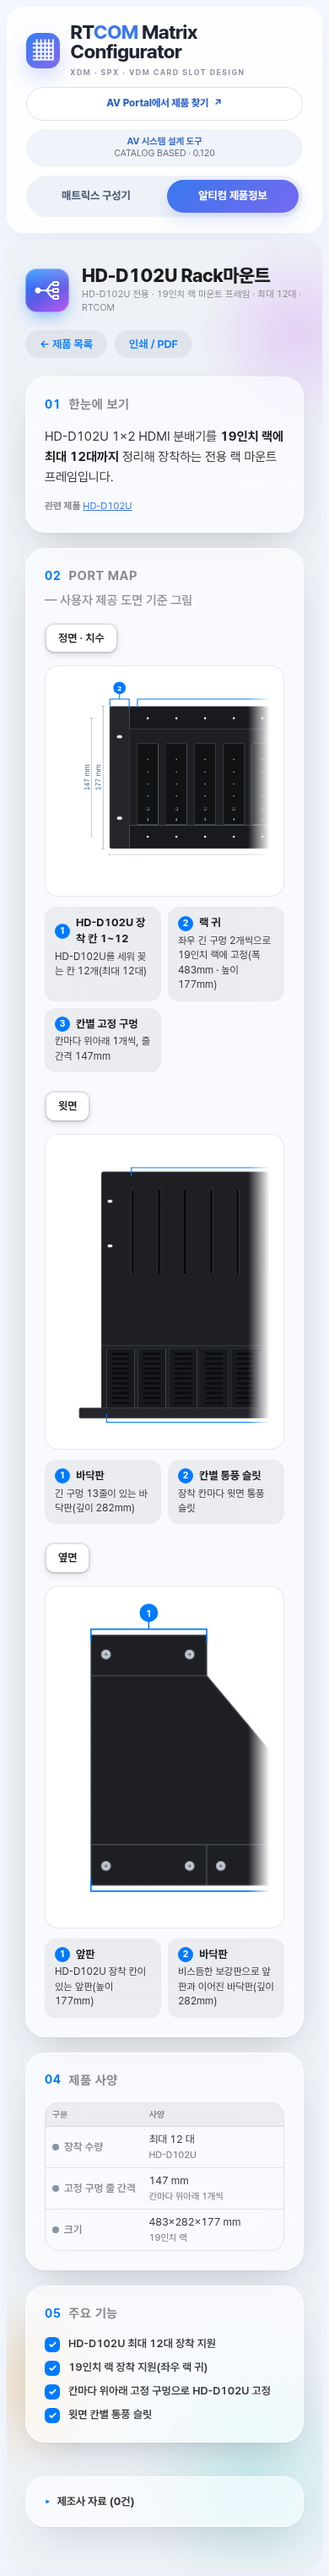
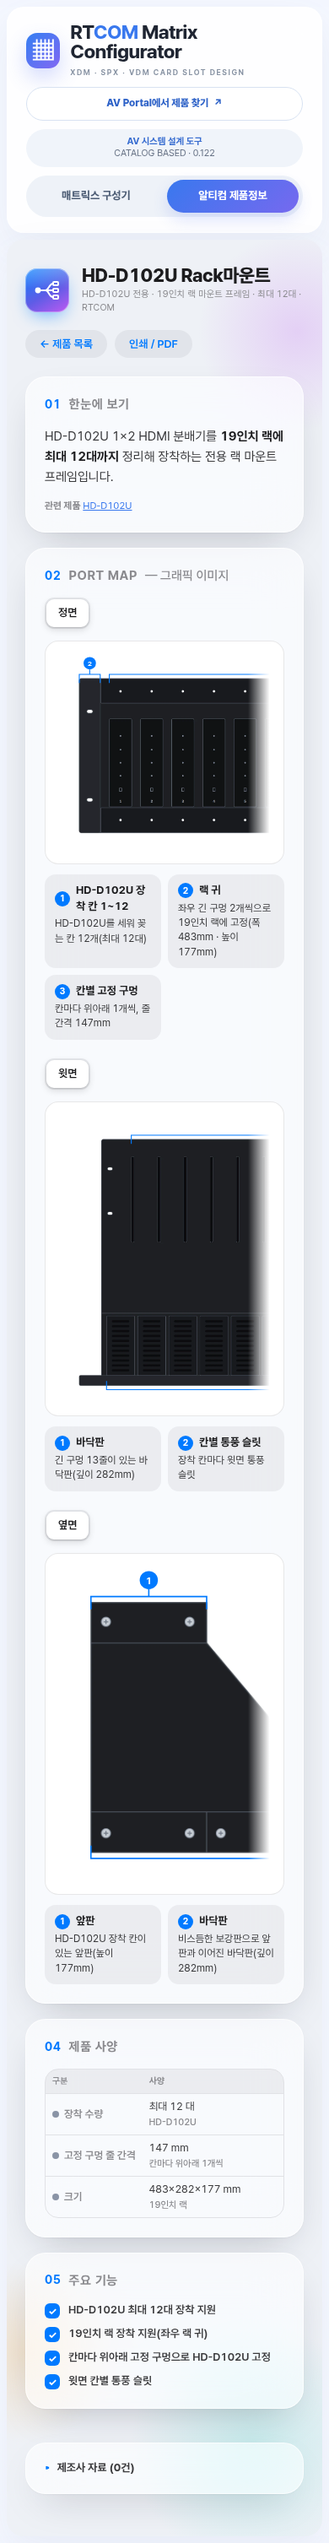
0.123.0: HD-D102U Rack마운트 실도면 제외, 그래픽 이미지만 (#151)
* data: XDM 전송기 RT컴 고해상도 사진 반영, FR101 수신기 단자 지도 추가

- XDM-CTR100·FT101·FR101 윗면·뒷면, XDM-CT103 정면 사진을 RT컴 제공
  고해상도 원본(4912px 투명 PNG)에서 잘라 2~5배 해상도로 교체(목록 카드 포함).
- 단자 지도: CTR100 뒷면·FT101 뒷면·CT103 앞면을 새 사진으로 다시 합성하고
  번호 좌표를 재측정. 앞면 자료가 없는 부분은 기존 카탈로그·매뉴얼 사진 유지.
- XDM-FR101 수신기 뒷면 단자 지도(번호 4개, 전원 마지막) 신규 추가.
- XDM-CTR100 PSE 사진은 기존보다 작아 사용하지 않음.
- e2e: FT101 검사를 첫 번째 지도 기준으로 고치고 새 검사 3개 추가(147/147).

Claude-Session: https://claude.ai/code/session_01V3dms2CC6NHWtyRSKKrJnV

* data: 구성기 04 전송기 썸네일·FT101 뒷면 사진도 RT컴 고해상도로 교체, 0.87.0

- extenders/xdm-ctr100·xdm-ft101·xdm-fr101(480→960px), xdm-ct103(220→440px)
- products/xdm-ft101-fr101-rear.webp 카탈로그 515px → RT컴 사진 1600px
- 0.87.0 버전 표기·CHANGELOG·CLAUDE.md 이력 갱신

Claude-Session: https://claude.ai/code/session_01V3dms2CC6NHWtyRSKKrJnV

* docs: 0.87.0 배포 기록

Claude-Session: https://claude.ai/code/session_01V3dms2CC6NHWtyRSKKrJnV

* data: XDM-CTR100·PSE 단자 지도 공통 고해상도 합성(앞면 PSE 안내서·뒷면 RT컴 CTR100), 0.88.0

사용자 확인 "ctr100과 pse는 단자는 동일해"에 따라 두 제품이 같은
합성 사진을 쓴다. 앞면 폭을 뒷면 몸체 폭에 맞추고 번호 7개를 재측정했다.

Claude-Session: https://claude.ai/code/session_01V3dms2CC6NHWtyRSKKrJnV

* docs: 0.89.0 배포 기록

PR #81 squash 병합(dd07581), Pages 배포 run 62, 공개 파일 242/242 일치, 비공개 파일 12개 404.

Claude-Session: https://claude.ai/code/session_01V3dms2CC6NHWtyRSKKrJnV

* data: QMS-88UX 06 DUAL 카드를 매뉴얼 근거 2분할(PBP)·PIP 레이아웃으로 보완, 0.90.0

"듀얼 모드" 한 마디뿐이던 DUAL 카드를 매뉴얼 KV.04 20~21쪽 근거로 채움.
QMS-88UX는 별도 듀얼 메뉴 없이 출력 9·10번 Multiview 설정에서
[…]

diff --git a/index.html b/index.html
@@ -1,7 +1,7 @@
 <!doctype html>
 <html lang="ko"><head><meta charset="utf-8"><meta name="viewport" content="width=device-width,initial-scale=1"><title>RTCOM 매트릭스 구성기</title><meta name="description" content="RTCOM XDM, SPX, VDM 매트릭스 카드 슬롯 구성기와 알티컴 공개 제품정보"></head><body><div id="rtcom-design" aria-label="RTCOM 매트릭스 구성기">
   <link rel="stylesheet" href="src/styles.css">
-  <header class="rt-top"><a class="rt-brand-lockup" href="./"><span class="rt-brand-mark" aria-hidden="true">▦</span><span><span class="rt-brand">RT<span>COM</span> Matrix Configurator</span><span class="rt-brand-sub">XDM · SPX · VDM CARD SLOT DESIGN</span></span></a><nav class="rt-view-tabs" aria-label="화면 전환"><a data-view-tab="configurator" href="#matrix-configurator" aria-current="page">매트릭스 구성기</a><a data-view-tab="products" href="#products">알티컴 제품정보</a></nav><div class="rt-top-links"><a class="rt-portal-link" href="https://seoulav.github.io/AV-Portal/" target="_blank" rel="noopener">AV Portal에서 제품 찾기 <span aria-hidden="true">↗</span><span class="rt-visually-hidden">(새 창)</span></a><div class="rt-meta"><b>AV 시스템 설계 도구</b><br>CATALOG BASED · 0.122</div></div></header>
+  <header class="rt-top"><a class="rt-brand-lockup" href="./"><span class="rt-brand-mark" aria-hidden="true">▦</span><span><span class="rt-brand">RT<span>COM</span> Matrix Configurator</span><span class="rt-brand-sub">XDM · SPX · VDM CARD SLOT DESIGN</span></span></a><nav class="rt-view-tabs" aria-label="화면 전환"><a data-view-tab="configurator" href="#matrix-configurator" aria-current="page">매트릭스 구성기</a><a data-view-tab="products" href="#products">알티컴 제품정보</a></nav><div class="rt-top-links"><a class="rt-portal-link" href="https://seoulav.github.io/AV-Portal/" target="_blank" rel="noopener">AV Portal에서 제품 찾기 <span aria-hidden="true">↗</span><span class="rt-visually-hidden">(새 창)</span></a><div class="rt-meta"><b>AV 시스템 설계 도구</b><br>CATALOG BASED · 0.123</div></div></header>
   <section class="rt-configurator-view" aria-label="매트릭스 구성기">
     <div id="matrix-configurator" class="rt-configurator-anchor"><h1 class="rt-visually-hidden" tabindex="-1">매트릭스 구성기 — 프레임을 선택하고 실제 슬롯 위치에 입력·출력 카드를 장착해 구성합니다.</h1></div>
     <div class="rt-workspace"><div class="rt-tools"><button class="rt-button" data-tool="undo" disabled>↶ 실행 취소</button><button class="rt-button" data-tool="redo" disabled>↷ 다시 실행</button><button class="rt-button" data-tool="backup">JSON 백업</button><button class="rt-button" data-tool="import">불러오기</button><button class="rt-button" data-tool="reset">새 구성</button></div><p id="save-status" role="status" aria-live="polite">이 브라우저에 자동 저장됩니다.</p><input id="import-file" type="file" accept=".json,application/json" hidden></div><nav class="rt-nav" aria-label="구성 단계"></nav>

diff --git a/src/products.js b/src/products.js
@@ -740,14 +740,6 @@
       const sorted=[...rows,...combos].sort((x,y)=>x[0]-y[0]).map(entry=>entry[1]).join('');
       return `<section class="rt-pg-card rt-pg-dip" style="margin-top:18px"><h2><span class="rt-pg-idx">${idx}</span>딥 스위치 설정 <span class="rt-pg-note">— ${esc(ds.place||'전면')} ${esc(ds.label||'딥 스위치')} · ${ds.onUp!==false?'위쪽':'아래쪽'}이 ON</span></h2><div class="rt-pg-dip-rows">${sorted}</div>${ds.apply?`<p class="rt-pg-hint">※ ${esc(ds.apply)}</p>`:''}${ds.note?`<p class="rt-pg-hint">※ ${esc(ds.note)}</p>`:''}</section>`;
     }
-    // ---- 도면 카드(0.122, HD-D102U Rack마운트). 사용자 제공 도면을 다시 그린 한 장(윗면·정면·옆면·치수)을 전체 폭으로 보여주고, 누르면 원본 크기로 연다 ----
-    function drawingSection(item){
-      const d=item.drawing;
-      const photo=d&&(item.images||[]).find(img=>img.file===d.file);
-      if(!photo)return '';
-      const idx=String(6+(item.videoModes?1:0)+(item.edidSwitch?.table?.length?1:0)+(item.audioMux?.modes?.length?1:0)+(item.dipSwitch?.rows?.length?1:0)).padStart(2,'0');
-      return `<section class="rt-pg-card rt-pg-drawing" style="margin-top:18px"><h2><span class="rt-pg-idx">${idx}</span>도면 <span class="rt-pg-note">— ${esc(d.basis||'제조사 도면 기준 그림')}</span></h2><a class="rt-pg-drawing-link" href="${image(photo.file)}" target="_blank" rel="noopener"><img src="${image(photo.file)}" alt="${esc(photo.alt||`${item.productName} 도면`)}" loading="lazy"></a>${d.note?`<p class="rt-pg-hint">※ ${esc(d.note)}</p>`:''}</section>`;
-    }
     // ---- 오디오 설정(병합 MUX·추출 DEMUX 중 선택, HD-13U). 매뉴얼 문장을 "이럴 때·연결·소리가 나오는 곳·확인 방법"으로 풀어 두 칸으로 보여준다 ----
     // HDS-21U·HDS-42MU는 딥 스위치 1번으로 고르므로 이 카드 대신 딥 스위치 설정 카드에서 함께 설명한다(사용자 요청 2026-09-27).
     // ---- 오디오 설정 순서 그림(0.61, 사용자 요청 "DIP 이미지처럼 불 켜짐", "분배기 로터리 이미지 그대로 활용해줘, 통일감이 없어") ----
@@ -815,7 +807,6 @@
       else if(hasAudioMux){belowCards=`${edidSwitchSection(item)}${audioMuxSection(item)}`}
       else{belowCards=edidSwitchSection(item)}
       belowCards+=dipSwitchSection(item);
-      belowCards+=drawingSection(item);
       // 휴대폰(1000px 이하)에서는 .rt-pg-col이 사라지고 rt-pg-col-mobile-N 순서로만 쌓이므로, sideCard도 순서 클래스가 있어야 05 다음(01~05, 06, 07 기록)으로 나온다(없으면 order:0이라 맨 앞으로 감).
       if(sideCard)sideCard=sideCard.replace('class="rt-pg-card', 'class="rt-pg-card rt-pg-col-mobile-6');
       return `${headerBlock({icon:PRODUCT_ICON[item.id]||GROUP_ICON[item.group],title:noBreak(item.productName),subtitle:`${esc(subtitleFor(item))} · RTCOM`,back:true,docs:docButtons(item),diagram:!!photo})}

diff --git a/src/styles.css b/src/styles.css
@@ -1040,7 +1040,3 @@ html{background:#f3f3ef}body{margin:0;padding:24px 16px;font-family:Arial,'Malgu
 #rtcom-design .rt-card-choice-ext-qty .rt-card-qty-stepper button{width:30px;height:30px;font-size:16px}
 #rtcom-design .rt-card-choice-ext-qty .rt-card-qty-stepper output{min-width:30px;font-size:15px}
 #rtcom-design .rt-card-choice-ext-qty[data-off]{opacity:.45}
-
-/* 0.122 도면 카드(HD-D102U Rack마운트): 한 장짜리 도면 그림을 카드 폭에 맞춰 보여준다. */
-.rt-pg-drawing-link{display:block;border-radius:14px;background:#fff;border:1px solid rgba(15,23,42,.08);padding:14px;cursor:zoom-in}
-.rt-pg-drawing-link img{display:block;width:100%;height:auto}

diff --git a/CLAUDE.md b/CLAUDE.md
@@ -50,7 +50,7 @@
 
 - 현재 화면 버전은 `index.html`의 우측 상단 표기와 `README.md`에 함께 기록합니다.
 - 원본 `main`에 기능 묶음을 병합할 때 마이너 버전을 올리고, 같은 커밋에서 `CHANGELOG.md`를 갱신합니다.
-- 구성기 단일 화면 전환은 `0.7.0`, Analog Way 방식 화면 개편은 `0.8.0`, 전송기 자동 연동은 `0.9.0`, HDMI 카드 PSE 쌍 연장은 `0.10.0`, SPX 매뉴얼 사진 슬롯은 `0.11.0`, VDM-256X 추가는 `0.12.0`, VDM 매뉴얼 후면 도면 슬롯은 `0.13.0`, 휴대폰 슬롯 겹침·뒤로가기 수정은 `0.14.0`, VDM 전면 도면은 `0.15.0`, 사진 슬롯 판넬 잘림 수정은 `0.16.0`, 장착 슬롯 번호표 숨김·구성 요약 카드 확대는 `0.17.0`, XDM 판넬 손나사 잘림 수정·VDM 전송기 연동·로고 홈 이동 확인은 `0.18.0`, 알티컴 공개 제품정보(29종) 재게시는 `0.19.0`, 제품정보 상세 표기를 에이앤미디어(antez.co.kr) 방식으로 정리한 것은 `0.20.0`, 데이터 기반 연결 다이어그램 추가는 `0.21.0`, 제품 사양 표를 구분·사양 2단으로 정리한 것은 `0.22.0`, 휴대폰 가로 스크롤(긴 출처 경로) 수정은 `0.23.0`, HD-14U·HD-18U 모델명 정정과 VDM CT102-U·FT102-U 계열 제외는 `0.24.0`, 제조사 카탈로그 원본 연결 다이어그램 적용은 `0.25.0`, 제품 사양 표 디자인(분류 색 점) 다듬기는 `0.26.0`, 새 카탈로그로 나머지 25종 재검증·XDM-CTR100 조합 다이어그램은 `0.27.0`, 연결 다이어그램 가로 스크롤 안내(그러데이션 표시)와 XDM-CTR100 케이블별 최대 전송거리(CI6522 80m) 추가는 `0.28.0`, VDM HOS4-U·HOS4S-UW 카드 설명을 스위칭 방식(일반·심리스)으로 정리하고 XDM-288을 구성기에서 삭제한 것은 `0.29.0`, XDM-CTR100 연결 다이어그램 조합 1을 매트릭스 카드 직결 배선으로 바로잡고 제조사 원본 다이어그램에 출처 캡션·표기 다름 경고를 추가하고 6개 제품과 SPX 다이어그램을 다시 잘라낸 것은 `0.30.0`, VDM 전송기 4종(CT101-U/CR101-U·CT103-U-H/CR103-U·FT101-U/FR101-U·FT103-U-H/FR103-U)에 RS-232 단자 행을 추가하고 이 4종과 CT104-U/CR104-U를 46쪽판과 재대조하고 27종 전체의 카탈로그 쪽 표기를 46쪽판 기준으로 통일한 것은 `0.31.0`, `docs/audit/PRODUCT_DIAGRAM_REVIEW_2026-09-27.md` §6 판단표대로 13개 제품의 검토 필요 항목을 정리해 REVIEW REQUIRED 배지를 없앤 것은 `0.32.0`, 제품정보 화면을 사용자 LED 구성기 계승 글래스 디자인으로 개편한 것(`docs/handoff/PRODUCT_GLASS_REDESIGN_SPEC.md` 6-A: 기반·HD-210U·XDM·VDM·SPX)은 `0.33.0`, 나머지 23종(분배기·일체형·전송기·케이블)에 lead·subtitle·portMap을 채우고 분배기·일체형 신호 흐름을 승인 시안 방식으로 바꾸고 QMS 화면 구성 모드(videoModes)를 추가한 것(6-B)은 `0.34.0`, HD-13U 상세에 전면 EDID 로터리 스위치 위치 표시와 EDID 코드표(edidSwitch, 사용자 제공 매뉴얼 근거)를 추가한 것은 `0.35.0`, HD-104U·HD-108U 모델명 표기를 0.24.0 정정 이전으로 되돌리고(사용자 확인 2026-09-27: 카탈로그 표기는 HD-104U·HD-108U이며 실크만 14U·18U로 변경 예정) HD-210U 전면 설정 스위치(딥 스위치·EDID 로터리) 추가와 신호 흐름 매트릭스 판정 복원을 함께 묶은 것은 `0.36.0`, 매트릭스 구성기 화면을 Analog Way 구조 + LED 글래스 스킨으로 개편하고 블랭크 커버(`placements`의 예약값 `"BLANK"`)로 슬롯 구성을 완성하는 기능을 추가한 것(`docs/handoff/CONFIGURATOR_AW_GLASS_SPEC.md`, 사용자 결정 2026-09-27)은 `0.37.0`, 0.37.0에서 시안과 다르게 남겨 둔 04 전송기 화면을 사용자 검토 후 좌우 분할 구조(01·02와 같은 틀)로 다시 지은 것(`docs/implementation/CONFIGURATOR_AW_GLASS.md` "04 전송기(편차 — 0.38.0에서 해소)")은 `0.38.0`, 제품 상세 "01 한눈에 보기" 위에 큰 사진 띠와 누르면 확대되는 돋보기(라이트박스)를 추가하고 화면에 보이는 제품 사양·주요 기능의 "up to" 표기를 "최대"로 통일하고 제품정보 "확인 사항" 118건을 2건으로 정리(HD-210U 크기 355mm 정정, `docs/audit/PRODUCT_ISSUES_ARCHIVE_2026-09-27.md`)한 것은 `0.39.0`, HD-13U "05 주요 기능"에 오디오 병합(믹스)·추출(디먹스) 동시 사용 안내(매뉴얼 7쪽 근거)를 추가한 것은 `0.40.0`, 분배기(HD-13U·HD-104U·HD-108U·HD-210U) EDID 로터리 코드표에서 자주 쓰는 1·7번을 강조하고 "02 신호 흐름"에 오디오 병합·추출(AUDIO OUT·"추출" 표시)을 추가한 것은 `0.41.0`, 사진 없이 입출력 표 카드로만 보이던 7종(HD-D102U·XDM-CTR100·전송기 5종)의 단자 지도를 HD-13U처럼 실제 제품 사진 기준으로 바꾸고 `portMap`이 송신기·수신기 사진 여러 장을 받게 한 것은 `0.42.0`, HDS-21U·HDS-42MU에 EDID 로터리(edidSwitch)를 추가하고 오디오 병합 설명을 "HDMI OUTPUT에 실리는 오디오" 기준으로 정정하고 분배기·선택기 필터를 HDMI 출력 개수 순으로 정렬하고 XDM-CTR100 "02 신호 흐름" 케이블 최대 전송거리 표기를 다이어그램 하단 한쪽으로 모은 것은 `0.43.0`, 분배기·선택기 필터 정렬을 분배기(Splitter)가 먼저 나오고 셀렉터(Switcher)가 나중에 나오도록(같은 종류 안에서는 HDMI 출력 개수 순) 바꾼 것은 `0.44.0`, 사용자 제공 매뉴얼 3권으로 벽부형 XDM-CT103·CT103-U-H/CR103-U·FT103-U-H/FR103-U의 단자 지도·사양·EDID 표를 보완하고 단자 지도에 세로 괄호·표시 폭·안내 줄을 추가한 것은 `0.45.0`, XDM-CTR100 PSE 제품 안내서와 XDM-CTR100 매뉴얼 Ver.1.4로 CTR100 단자 역할(HDMI IN·OUT, 5핀 오디오 출력, 상태 LED)·딥 스위치 설정·PSE 크기·전원을 보완한 것은 `0.46.0`, 옛 PR #22에만 있던 사용자 결정(XDM-CTR100과 XDM-CTR100 PSE를 별도 제품으로 분리해 28종, QMS-88UX 쿼드 뷰 출력 9·10번 사용법, 모델명 줄바꿈 방지)을 현재 main 기준으로 다시 옮기고 HD-13U 오디오 병합·추출을 선택 방식으로 정정해 07 오디오 설정 카드를 추가하고 모든 제품의 단자 지도 번호를 HDMI 입력 → 출력 → 오디오 → … → 전원(마지막) 순으로 통일한 것은 `0.47.0`, QMS-88UX 출력 9·10번 멀티뷰의 12가지 레이아웃·입력 그룹·출력 옵션을 사용자 제공 매뉴얼 20~23쪽 근거로 "주요 기능"에 적은 것은 `0.48.0`, HDS-21U·HDS-42MU 오디오 병합·추출을 딥 스위치 1번 선택 방식으로 정정하고 07 오디오 설정 카드를 추가하고 사용자 제공 매뉴얼 Ver.1.0으로 Priority·분배 기능 딥 스위치를 보완하고 제품 사진 팝업을 사용자 LED 계산기 "05 프로세서" 방식(사진 탭·원형 돋보기)으로 바꾼 것은 `0.49.0`, QMS-88UX "02 신호 흐름"에서 멀티뷰 출력 9·10번을 매트릭스 출력과 분리된 별도 갈래(패널·캡션)로 다시 그리고 "05 주요 기능" 멀티뷰 항목을 요약하고 오디오 출력 2개(QD1·QD2)가 선택 가능한 출력임을 반영한 것은 `0.50.0`, QMS-88UX "04 제품 사양"의 조건 칸(부설)을 모두 비우고 LAN(Telnet & Web Browser) 표기를 사양·기능·개요·단자 지도에서 모두 뺀 것은 `0.51.0`, HDS-42MU 크기를 사용자 결정에 따라 매뉴얼 값 232×65×30mm로 바꾸고 제품 상세의 "자료 출처·검토 기록"을 "제조사 자료"로 이름을 바꿔 화면의 출처 표시를 뺀 것은 `0.52.0`, QMS-88UX 오디오 QD1·QD2 설명 정리·"02 신호 흐름" 오디오 추출 점선과 멀티뷰 8입력분할 표현 정리·입출력 단자 표 정렬 통일(TX→구분 없음→RX, 영상→오디오→전송→제어, 입력→출력→양방향)·"제조사 자료"에서 표기 다름·참고 사항도 추가로 뺀 것과 조건 칸의 출처 문구를 지우고 "05 주요 기능"을 한 줄 요약으로 줄인 것(상세는 06·07 카드·사양·단자 지도로 이동)은 `0.53.0`, XDM-CTR100·CTR100 PSE "04 제품 사양"의 딥 스위치 행을 다시 삭제(딥 스위치는 05 주요 기능에서만 안내)하고 전 제품 "05 주요 기능"을 추가로 압축하고 매트릭스 COS/CIS/FIS/FOS 카드와 짝인 전송기 3종(XDM-CTR100·CTR100 PSE·FT101/FR101)에 RS-232+ 패스스루(AMX 등 통합 제어 신호를 매트릭스·전송기 너머로 전달) 안내를 추가하고 "02 신호 흐름"의 케이블 최대 전송거리 표기를 범례 "출력" 항목 오른쪽으로 옮긴 것은 `0.54.0`, 구성기 확인 창을 사이트 글래스 스타일 대화상자로 바꾸고 카드 팝업에 수량 채우기와 같은 방향 슬롯 이동(끌어 옮기기·팝업 이동)을 추가하고 XDM 세로 슬롯 카드를 180도 돌리고 2U 이상만 정면·후면 버튼(그보다 작으면 정면 사진과 포트 연결면을 함께 표시)으로 하고 구성기 작업 단계 표기를 한글로 바꾸고 Delete 키 카드 빼기와 XDM RS-232+(CIS·COS·FIS·FOS 카드와 짝 전송기) 표기를 더한 것은 `0.55.0`, 전 제품 "05 주요 기능" 카탈로그 어투 통일("~ 지원")·"01 한눈에 보기" 위 사진 띠 삭제·"02 신호 흐름"과 "03 단자 지도" 순서 교체 및 영문 표기(Signal Flow·Port Map)·화면 구성 모드 등 06 카드를 05 옆으로 배치·QMS-88UX 06 화면 구성 모드 레이아웃 12종 클릭 미리보기 추가·HDS-21U·HDS-42MU 단자 지도를 정면·후면 선택 버튼 없이 위아래 합성 사진 한 장(번호 1~7, EDID 로터리 6번·전원 7번)으로 바꾼 것은 `0.56.0`, 05 옆으로 옮긴 06 카드가 휴대폰에서 01보다 먼저 뜨던 순서 버그를 고치고(rt-pg-col-mobile-6 클래스 추가) 15개 제품 "05 주요 기능"의 "~할 수 있다." 표현 24곳을 명사형으로 정리한 것은 `0.57.0`, HDS-21U·HDS-42MU 단자 지도에 MODE 딥 스위치 번호(7번)를 추가하고 07 오디오 설정 카드를 딥 스위치 그림(번호별 OFF·ON) 카드인 07 딥 스위치 설정으로 바꾸고(1번 오디오 병합·추출, 2번 Priority, 42MU만 3번 분배) 04 제품 사양의 딥 스위치 행과 05 주요 기능의 긴 설명을 이 카드로 옮기고 매트릭스 제품(QMS-44UX·QMS-88UX·HDS-42MU) "03 Signal Flow"를 입력이 한 점으로 모이는 모양 대신 크로스포인트(출력마다 입력 선택 예시)로 다시 그리고 HDS-42MU 정면 사진의 잘못 인쇄된 실크(MODE·EDID)를 사진 안에서 서로 바꾼 것은 `0.58.0`, EDID 로터리 태그 잘림·06 EDID 카드 배치·긴 코드표 좌우 분할을 고치고 EDID 설정 카드에 기본값·자주 쓰는 코드를 파란 16단 로터리 그림(화살표가 코드를 가리킴)으로 보여주고 HDS-21U·HDS-42MU(3·9번)·FT103-U-H/FR103-U(3·6번)에 자주 쓰는 코드 강조를 더하고 EDID 코드표 세로 크기를 줄인 것은 `0.59.0`, 04 제품 사양 표 줄 간격을 약 15% 줄이고 03 Signal Flow에서 AUDIO OUT "추출" 표시가 잘리던 그림 너비 계산을 고친 것은 `0.60.0`, HD-13U 07 오디오 설정을 06 EDID 다음 전체 폭으로 옮겨 잘림·번호 뒤집힘을 고치고 EDID 대표 설정과 같은 칸 4개(MODE 로터리 0번 → SET 누름 → OUT 1 LED 깜빡임·깜빡이지 않음)를 넣고 HD-210U에 매뉴얼 Ver.1.2 근거 07 딥 스위치 설정 카드(1번 오디오 병합, 2번 DDC)를 추가한 것은 `0.61.0`, 딥 스위치 카드가 있는 HD-210U·HDS-21U·HDS-42MU의 05 주요 기능에서 스위치 번호 참조를 지우고 HD-210U(5줄)·HD-13U(3줄) 05 주요 기능을 기능 이름만 남겨 정리하고 HDS-21U·HDS-42MU 딥 스위치 칸을 ON → OFF 순서로 바꾼 것은 `0.62.0`, QMS-44UX·QMS-88UX "06 화면 구성 모드" 카드가 05 옆 좁은 칸에 들어가면서 모드 카드 설명·레이아웃 칩이 카드 밖으로 넘치던 문제를 edidSwitch와 같은 기준(항상 전체 폭 아래)으로 고친 것은 `0.63.0`, SPX-TX/RX 전송기를 29번째 제품으로 추가(매뉴얼 Ver.2.0: 사양·단자 지도·딥 스위치 조합)하고 XDM-FT101/FR101에 매뉴얼 Ver.1.3 근거 EDID·오디오 로터리 카드(전체 8칸 그림)를 넣고 SPX 안내·범례의 HDBaseT 표기를 CATx로 바로잡고 OBUX-1C에 매뉴얼 Ver.2.2 근거 Tx Mode 딥 스위치 카드(1번 오디오, 2·3·4번 EDID 조합)를 넣고 전 제품 05 주요 기능의 "~한다/~다." 문장을 "~ 지원"·명사형으로 통일한 것은 `0.64.0`, OBHD-2C에 매뉴얼 KV01 근거 06 EDID 설정(MODE 로터리 0~D 전체 14칸 그림·코드표)을 추가하고 XDM-CT103/CR103 04 제품 사양의 전원(어댑터) 중복 행(CT103·CR103 각각 있던 동일 값)을 공통 행 하나로 합친 것은 `0.65.0`, XDM-CTR100·XDM-CTR100 PSE에 매뉴얼 Ver.1.4 근거 06 딥 스위치 설정(1·2번 TX/RX 모드 조합, 3번 전송 거리)을 추가하고 두 제품이 별도 페이지로 나뉜 뒤에도 남아 있던 04 제품 사양의 "공통"·자기 모델명 반복 표기를 정리하고 04 사양 "지원 케이블"을 "권장 케이블"로 바꾸고 분배기 4종(HD-13U·HD-104U·HD-108U·HD-210U) 단자 지도를 앞면·뒷면 합성 사진 한 장으로 바꿔 정면 로터리(·SET·MODE)에도 번호를 붙인 것은 `0.66.0`, QMS-88UX 06 화면 구성 모드 QUAD 레이아웃 목록에 매뉴얼 22~23쪽 Output Option 2·3 근거로 "8분할(비율무시)"을 13번째 항목으로 추가하고 분배기 4종(HD-13U·HD-104U·HD-108U·HD-210U) 05 주요 기능에 다단 증폭(캐스케이드 연결) 최대 3단 지원을 추가한 것은 `0.67.0`, XDM-FT101/FR101 단자 지도에 정면 MODE 로터리·S/P 번호를 추가하고 HD-D102U 05 주요 기능을 명사형으로 전면 재작성하고 HDS-21U·HDS-42MU "Audio Extraction"과 HD-210U EDID "Nothing" 표기를 통일하고 HDS-21U 딥 스위치 3번(분배)이 매뉴얼에 없는 기능이었음을 사용자 제공 매뉴얼로 확인해 삭제한 것은 `0.68.0`, HDS-21U·HDS-42MU 06 EDID 설정 안내 문장에서 "10번=A, 11번=B"처럼 10진수를 다시 설명하던 괄호를 완전히 지운 것은 `0.69.0`, 구성기 "섀시"를 "프레임"으로 통일하고 카드 팝업에 수량·순서대로 장착 버튼을 넣고 02 프레임 선택에 "함께 보면 좋은 제품"을 추가하고 빈 슬롯 공패널색을 통일하고 OBHD-2C EDID 로터리 번호를 매뉴얼 Ver.2.1 기준으로 정정하고 HD-D102U "스마트 EDID" 문구를 알기 쉽게 풀어 쓰고 HD-13U·XDM-CTR100 PSE "인증: KC 인증" 행을 삭제하고 HD-D102U 04 사양표를 HD-13U와 같은 구성으로 정리한 것은 `0.70.0`, OBHD-2C 04 제품 사양의 크기·무게·HDMI 규격을 사용자 결정에 따라 매뉴얼 Ver.2.1 값(128×89×25mm·0.36kg·HDMI 1.3)으로 바꾼 것은 `0.71.0`, OBHD-2C·OBUX-1C 04 제품 사양의 입력단자·출력단자(HDMI(female) 등 표기) 행을 삭제하고 전 제품(16종)의 mm/kg 옆 인치·lbs 병기를 지운 것은 `0.72.0`, XDM-PSU 전원 장치를 반영해 BOM의 임시 "전원 공급 장비"를 XDM-PSU(16칸당 1대)·XDM-POH(CTR100 Tx 1대당 1개)·XDM-PHX(COS100 1장당 1개)로 나누고 XDM-PSU를 30번째 제품으로 추가하고, HDS-21U·OBUX-1C 송신기·수신기 고해상도 실물 사진을 반영하고, CT103-U-H/CR103-U 04 제품 사양을 요약 형태로 정리한 것은 `0.73.0`, QMS-44UX 전면·후면 사진을 사용자가 직접 촬영한 고화질 사진으로 바꾸고 03 단자 지도 좌표를 재보정하고 새 사진에서 확인된 DOWNLOAD(Mini-USB) 포트를 추가한 것은 `0.74.0`, HD-108U 전면·후면 사진을 제조사에서 입수한 고화질 사진으로 바꾸고 03 단자 지도와 06 EDID 설정 로터리 스위치 좌표를 재보정한 것은 `0.75.0`, HDS-42MU 전면·후면 사진을 고화질로 바꾸고 단자 지도·EDID 좌표를 재보정한 것은 `0.76.0`, HD-13U·SPX-M810 전면·후면 사진을 고해상도로 바꾸고 HD-13U 단자 지도·EDID 좌표와 SPX-M810 구성기 카드 슬롯 좌표를 재측정한 것은 `0.77.0`, 사용자가 제공한 HD-104U 고해상도 전면·후면 사진(긴 변 약 2000px)으로 기존 저해상도 이미지를 교체하고 단자 지도·EDID 로터리 스위치 좌표를 새 사진 기준으로 다시 측정한 것은 `0.78.0`, 제품 상세에 등록된 제조사 카탈로그·매뉴얼 PDF만 "제품 목록" 옆 버튼(새 탭 보기·내려받기)으로 보여 주는 구조를 추가한 것은 `0.79.0`, 매트릭스 카드 상세 정보 버튼과 XDM·SPX·VDM 카드 26종 사양을 등록한 것은 `0.80.0`, 로컬 작업 환경(`DEVICE_WORKFLOW.md`, `.gitattributes`, `.claude/settings.json`)과 `input_doc` 자료 자동 분류(`.claude/skills/input-doc`, `scripts/input_doc.py`)를 추가한 것은 `0.81.0`, 제조사 자료 입출력 단자 표에서 방향("입력"·"출력"·"입출력")·수량(숫자) 칸이 좁은 화면에서 줄바꿈되던 문제를 30개 제품 전수 조사로 찾아 고친 것은 `0.82.0`, 제목에 송신기·수신기가 들어간 제품 10종의 라벨을 색으로 구분한 것은 `0.83.0`, input_doc 첫 정리(매뉴얼 20권·사양서 1장)로 VDM HOS4-U 카드 사양을 등록하고 CIS4-U·COS4-U·QOS4S-U를 매뉴얼 KV07 값으로 보완하고 input_doc 반영 장부(`docs/evidence/input-doc-ledger.json`)와 파일별 반영 표시(`input_doc/STATUS.md`)를 추가하고 검증된 PR의 병합·배포를 Claude가 이어서 하도록 규칙을 바꾼 것은 `0.84.0`, 카탈로그·매뉴얼 충돌 정리(`docs/audit/CATALOG_MANUAL_CONFLICTS_2026-09-28.md`) 결정대로 VDM -U 카드에 매뉴얼 해상도 행·SOS4 오디오 포트를 더하고 QMS-88UX 멀티뷰에 8분할(16:9 비율)을 추가한 것은 `0.85.0`, 카탈로그·매뉴얼 충돌 항목을 사용자 결정("새로준 자료 기준으로")에 따라 매뉴얼 값으로 통일한 것(HD-104U 전원 1A, XDM 전송기 3840x2160, VDM 광 카드 10km·-U 카드 4096×2160·HOS4S-UW 1920×1080)은 `0.86.0`, RT컴 제공 고해상도 실물 사진으로 XDM-CTR100·XDM-FT101·XDM-FR101·XDM-CT103 제품 사진·목록 카드·구성기 04 전송기 썸네일을 교체하고 CTR100·FT101·CT103 단자 지도를 새 사진으로 다시 합성하고 XDM-FR101 수신기 뒷면 단자 지도를 추가한 것은 `0.87.0`, 사용자 결정("1번")으로 input_doc 매뉴얼 17개를 공개 폴더에 올려 16개 제품 상세에 매뉴얼 PDF 버튼을 켠 것은 `0.88.0`, 사용자 확인("ctr100과 pse는 단자는 동일해")에 따라 XDM-CTR100·XDM-CTR100 PSE 단자 지도를 같은 합성 사진(앞면 PSE 제품 안내서 사진 + 뒷면 RT컴 CTR100 사진)으로 바꾼 것은 `0.89.0`, QMS-88UX 06 화면 구성 모드의 DUAL 카드("듀얼 모드" 한 마디뿐)를 매뉴얼 KV.04 20~21쪽 근거로 출력 9·10번 멀티뷰 설정의 2분할(PBP)·PIP 레이아웃 3종으로 채운 것은 `0.90.0`, XDM-CTR100 PSE 정면 사진을 사용자가 재확인("1번 맞아"·"적용시켜줘")한 원본 PNG에서 정확한 픽셀 경계로 다시 잘라 646×396으로 다시 저장한 것은 `0.91.0`, SPX-TX/SPX-RX 단자 지도 사진의 검은 배경을 흰색으로 바꾸고(사용자 요청) 전송기 6개 제품 사양의 ft(피트) 표기를 일괄 삭제한 것은 `0.92.0`, 전송기 9종 04 제품 사양 조건 칸의 "모델A·모델B 공통" 표기 55곳을 일괄 삭제하고 XDM-PSU에 "03 Signal Flow"(POH 입력 경로·PHX 출력 경로, 주황 전원 선) 그림을 추가한 것은 `0.93.0`, XDM-CTR100·XDM-CTR100 PSE 04 제품 사양의 최대 전송거리 3행을 1행으로 합치고 권장 케이블 행을 지우고 PSE 목록 썸네일을 정면 사진으로 바꾼 것은 `0.94.0`, 전체 카탈로그 46쪽판을 공용 파일(`rtcom-catalog-2026.pdf`) 하나로 공개해 29개 제품 상세의 카탈로그 PDF 버튼이 제품 쪽(`#page=N`)에서 열리고 제품 목록에 전체 카탈로그 버튼을 둔 것(사용자 결정 2026-09-28 "전체 카탈로그 공개해도 돼")은 `0.95.0`, QMS-88UX 06 화면 구성 모드의 QUAD·DUAL 설명 문장을 짧게 줄이고 매뉴얼 쪽 번호를 화면에 안 보이는 `page` 항목으로 옮기고 QMS-44UX QUAD 설명도 두 줄로 나눠 줄인 것(사용자 요청 "QMS-44, 88 모두 글이 너무 많아 좀 더 요약해줘")은 `0.96.0`, 전체 카탈로그 46쪽판에서 제품마다 해당 쪽만 뽑은 제품별 카탈로그 PDF 29개(`<제품id>-catalog.pdf`, XDM은 전송기 쪽을 뺀 4~9쪽, SPX-TX/RX는 16쪽)를 만들어 제품 상세 카탈로그 버튼에 연결한 것(사용자 결정 2026-09-28 "제품별로 잘라 공개")은 `0.97.0`, XDM-PSU "03 Signal Flow"를 제조사 연결도처럼 매트릭스 프레임(CIS100·COS100)·XDM-PSU(POH·PHX)·XDM-CTR100 Tx/Rx 장비 그림으로 다시 그리고 케이블을 따라 신호·전원이 흐르는 애니메이션을 넣은 것(사용자 요청 2026-09-28)은 `0.98.0`, 그 그림의 XDM-COS100을 포트마다 RJ45+피닉스 5핀으로 고쳐 PHX 2핀 전원선이 1번 포트 피닉스 단자에 꽂히게 하고(사용자 확인 "COS PHNIX픽에 전원연결") XDM-PSU Signal Flow에만 "크게 보기" 확대 창(100~300%)을 넣은 것은 `0.99.0`, QMS-88UX "8분할(16:9 비율)" 미리보기가 매뉴얼(KV.04 23쪽)처럼 위·아래 여백을 짙은 막대로 보여주게 고친 것(사용자 지적 "8분할시 비율유지는 안되는거 같은")은 `0.100.0`, 구성기 카드 팝업 "카드별 수량" 스테퍼가 다 채운 뒤 사라지던 버그를 고친 것은 `0.101.0`, OBHD-2C 단자 지도 사진 3장의 검은 배경을 흰색으로 바꾼 것(사용자 요청 2026-09-28 "OBHD-2C 이미지 너가 블랙을 뺄수 있을까?")은 `0.102.0`, XDM-CTR100과 동등 사양인 XDM-CT103/CR103의 "권장 케이블"을 "CAT6a, CAT7"에서 "CAT6A S/FTP 이상(UTP 사용 불가)"으로 정정하고 XDM-CIS100·COS100 카드 소개 문구도 맞춘 것은 `0.103.0`, XDM-CTR100 PSE 크기 표기를 사용자 제공 스펙표 근거로 "107.4[127.4]×88×30.1mm"(본체[브래킷 포함])로 QMS-88UX와 같은 표기 관례로 바꾼 것은 `0.104.0`, XDM-PSU 머리 아이콘을 전원(번개) 모양으로 바꾸고 02 Port Map 앞면·뒷면을 03 Signal Flow와 같은 평면 그림(`scripts/tools/draw_xdm_psu_panels.cjs`, 제조사 도면 배치)으로 다시 만든 것(사용자 요청 2026-09-28)은 `0.105.0`, XDM-PSU 03 Signal Flow의 COS100 전원선 길이·배치를 조정하고 확대 창 범례 누락을 고친 것은 `0.106.0`, OBHD-2C 사진 3장에서 원본부터 깨져 있던 실크 글자(송신기 PWR의 R·EDID S/W의 D 두 개, 수신기 AUDIO의 D)를 같은 사진의 온전한 글자로 복원한 것은 `0.107.0`, HD-13U 제품 상세 카탈로그 PDF 버튼을 새 탭 대신 화면 안 팝업(iframe)으로 여는 샘플을 적용하고(사용자 요청 2026-09-28 "카달로그는 팝업형태 보이면 어때? 1장짜리라서 파일다운받아서 다시 열기 불편해", "샘플로 HD-13U만 적용해줘"), 카드 선택 팝업의 "순서대로 장착"·"닫기" 버튼을 "장착" 하나로 합치고 "다른 출력 슬롯으로 이동" 드롭다운을 없애고(사용자 요청 "내가 직접 드래그 이동이 가능하니까"), XDM-HOS100 "정사분할" 표기를 "최대 4분할"로 통일하고, XDM-CTR100·XDM-CTR100 PSE "최대 전송거리" 조건 문구를 "*S/FTP CAT6A 필수"로 단순화한 것은 `0.108.0`, QMS-88UX "03 Signal Flow" 멀티뷰 출력 9·10번 캡션을 "9·10번 각 4분할 · 합쳐서 최대 8입력"에서 "9·10번 각 4분할 또는 8분할"로 바로잡은 것(사용자 지적)은 `0.109.0`, XDM 연결 전송기 4종(XDM-CTR100·XDM-CTR100 PSE·XDM-CT103/CR103·XDM-FT101/FR101)의 04 제품 사양 최대 해상도 표기를 `4K60Hz`(4:4:4)로 통일하고 XDM-FT101/FR101의 4096x2160 표기를 개요·주요 기능·사양에서 모두 뺀 것(사용자 결정 2026-09-28 "4종 4K60(4:4:4) 형식으로 통일", "4096은 잘 사용하지 않아서 모든 양식에서 빼자")은 `0.110.0`, 실물 사진이 없는 VDM 프레임 전면 7종·후면 8종을 VDM-16X 실물 사진과 같은 검은 몸체의 평면 그림(`scripts/tools/draw_vdm_frames.cjs`, 매뉴얼 KV07 도면 배치)으로 바꾼 것은 `0.111.0`, HD-13U 카탈로그 팝업을 iframe 대신 저장소에 넣은 PDF.js(`src/vendor/pdfjs/`, Apache 2.0)로 그려 PDF 보기 기능이 없는 휴대폰·인앱 브라우저에서도 다운로드 없이 바로 보이게 한 것(사용자 결정 2026-09-28 "PDF.js로 HD-13U 적용해줘")은 `0.112.0`, 구성기 후면(03 카드 슬롯) XDM 6종(후면 사진이 없던 XDM-216 포함)·SPX 5종 프레임을 VDM과 같은 평면 그림(`scripts/tools/draw_xdm_spx_rear_frames.cjs`)으로 바꾼 것은 `0.113.0`, 02 프레임 선택 미리보기 캡션 아래에 "다음 · 카드 슬롯 구성" 버튼을 넣은 것은 `0.114.0`, 카드 선택 팝업 아래 줄의 "슬롯 비우기(Del)"를 왼쪽·"장착"을 오른쪽으로 바꾼 것은 `0.115.0`, 02 프레임 선택 미리보기에 정면·후면을 함께 보여 주고(위아래·좌우, 후면 세로/가로 비율 2 초과인 XDM-144·216, VDM-80X·128X·180X만 정면/후면 버튼) 휴대폰 미리보기 높이 제한을 없앤 것은 `0.116.0`, 03 카드 선택 팝업에서 카드마다 연동 전송기(칩)를 골라 장착과 함께 연결하게 한 것(02·04는 그대로)은 `0.117.0`, 카드 선택 팝업 연동 전송기에 카드 1장당 수량 조절기를 더해 연결 수량과 물량 산출서(BOM)에 반영한 것은 `0.118.0`, VDM-16X 후면(카드가 꽂힌 실물 사진)을 빈 슬롯 평면 그림으로 바꿔 후면 20종을 모두 그림으로 맞춘 것은 `0.119.0`, VDM 카드 사진(HOS4S-UW·CIS4-U·COS4-U)과 VDM 프레임 그림 슬롯 칸을 모두 5.7:1로 맞춰 카드가 칸에 정확히 들어가게 한 것은 `0.120.0`, HD-D102U를 최대 12대 장착하는 19인치 랙 프레임 "HD-D102U Rack마운트"를 사용자 제공 도면으로 31번째 제품(정면·윗면·옆면 그림, HD-D102U와 서로 관련 제품)으로 추가한 것은 `0.121.0`, 그 제품 상세에 사용자 제공 도면 한 장(윗면·정면·옆면·치수)을 다시 그린 "06 도면" 카드(`drawing` 항목)를 추가한 것은 `0.122.0`으로 기록했습니다. 다음 기능 묶음은 `0.123.0`을 목표로 하며, 실제 병합 전에는 검증된 canonical main commit을 확인합니다.
+- 구성기 단일 화면 전환은 `0.7.0`, Analog Way 방식 화면 개편은 `0.8.0`, 전송기 자동 연동은 `0.9.0`, HDMI 카드 PSE 쌍 연장은 `0.10.0`, SPX 매뉴얼 사진 슬롯은 `0.11.0`, VDM-256X 추가는 `0.12.0`, VDM 매뉴얼 후면 도면 슬롯은 `0.13.0`, 휴대폰 슬롯 겹침·뒤로가기 수정은 `0.14.0`, VDM 전면 도면은 `0.15.0`, 사진 슬롯 판넬 잘림 수정은 `0.16.0`, 장착 슬롯 번호표 숨김·구성 요약 카드 확대는 `0.17.0`, XDM 판넬 손나사 잘림 수정·VDM 전송기 연동·로고 홈 이동 확인은 `0.18.0`, 알티컴 공개 제품정보(29종) 재게시는 `0.19.0`, 제품정보 상세 표기를 에이앤미디어(antez.co.kr) 방식으로 정리한 것은 `0.20.0`, 데이터 기반 연결 다이어그램 추가는 `0.21.0`, 제품 사양 표를 구분·사양 2단으로 정리한 것은 `0.22.0`, 휴대폰 가로 스크롤(긴 출처 경로) 수정은 `0.23.0`, HD-14U·HD-18U 모델명 정정과 VDM CT102-U·FT102-U 계열 제외는 `0.24.0`, 제조사 카탈로그 원본 연결 다이어그램 적용은 `0.25.0`, 제품 사양 표 디자인(분류 색 점) 다듬기는 `0.26.0`, 새 카탈로그로 나머지 25종 재검증·XDM-CTR100 조합 다이어그램은 `0.27.0`, 연결 다이어그램 가로 스크롤 안내(그러데이션 표시)와 XDM-CTR100 케이블별 최대 전송거리(CI6522 80m) 추가는 `0.28.0`, VDM HOS4-U·HOS4S-UW 카드 설명을 스위칭 방식(일반·심리스)으로 정리하고 XDM-288을 구성기에서 삭제한 것은 `0.29.0`, XDM-CTR100 연결 다이어그램 조합 1을 매트릭스 카드 직결 배선으로 바로잡고 제조사 원본 다이어그램에 출처 캡션·표기 다름 경고를 추가하고 6개 제품과 SPX 다이어그램을 다시 잘라낸 것은 `0.30.0`, VDM 전송기 4종(CT101-U/CR101-U·CT103-U-H/CR103-U·FT101-U/FR101-U·FT103-U-H/FR103-U)에 RS-232 단자 행을 추가하고 이 4종과 CT104-U/CR104-U를 46쪽판과 재대조하고 27종 전체의 카탈로그 쪽 표기를 46쪽판 기준으로 통일한 것은 `0.31.0`, `docs/audit/PRODUCT_DIAGRAM_REVIEW_2026-09-27.md` §6 판단표대로 13개 제품의 검토 필요 항목을 정리해 REVIEW REQUIRED 배지를 없앤 것은 `0.32.0`, 제품정보 화면을 사용자 LED 구성기 계승 글래스 디자인으로 개편한 것(`docs/handoff/PRODUCT_GLASS_REDESIGN_SPEC.md` 6-A: 기반·HD-210U·XDM·VDM·SPX)은 `0.33.0`, 나머지 23종(분배기·일체형·전송기·케이블)에 lead·subtitle·portMap을 채우고 분배기·일체형 신호 흐름을 승인 시안 방식으로 바꾸고 QMS 화면 구성 모드(videoModes)를 추가한 것(6-B)은 `0.34.0`, HD-13U 상세에 전면 EDID 로터리 스위치 위치 표시와 EDID 코드표(edidSwitch, 사용자 제공 매뉴얼 근거)를 추가한 것은 `0.35.0`, HD-104U·HD-108U 모델명 표기를 0.24.0 정정 이전으로 되돌리고(사용자 확인 2026-09-27: 카탈로그 표기는 HD-104U·HD-108U이며 실크만 14U·18U로 변경 예정) HD-210U 전면 설정 스위치(딥 스위치·EDID 로터리) 추가와 신호 흐름 매트릭스 판정 복원을 함께 묶은 것은 `0.36.0`, 매트릭스 구성기 화면을 Analog Way 구조 + LED 글래스 스킨으로 개편하고 블랭크 커버(`placements`의 예약값 `"BLANK"`)로 슬롯 구성을 완성하는 기능을 추가한 것(`docs/handoff/CONFIGURATOR_AW_GLASS_SPEC.md`, 사용자 결정 2026-09-27)은 `0.37.0`, 0.37.0에서 시안과 다르게 남겨 둔 04 전송기 화면을 사용자 검토 후 좌우 분할 구조(01·02와 같은 틀)로 다시 지은 것(`docs/implementation/CONFIGURATOR_AW_GLASS.md` "04 전송기(편차 — 0.38.0에서 해소)")은 `0.38.0`, 제품 상세 "01 한눈에 보기" 위에 큰 사진 띠와 누르면 확대되는 돋보기(라이트박스)를 추가하고 화면에 보이는 제품 사양·주요 기능의 "up to" 표기를 "최대"로 통일하고 제품정보 "확인 사항" 118건을 2건으로 정리(HD-210U 크기 355mm 정정, `docs/audit/PRODUCT_ISSUES_ARCHIVE_2026-09-27.md`)한 것은 `0.39.0`, HD-13U "05 주요 기능"에 오디오 병합(믹스)·추출(디먹스) 동시 사용 안내(매뉴얼 7쪽 근거)를 추가한 것은 `0.40.0`, 분배기(HD-13U·HD-104U·HD-108U·HD-210U) EDID 로터리 코드표에서 자주 쓰는 1·7번을 강조하고 "02 신호 흐름"에 오디오 병합·추출(AUDIO OUT·"추출" 표시)을 추가한 것은 `0.41.0`, 사진 없이 입출력 표 카드로만 보이던 7종(HD-D102U·XDM-CTR100·전송기 5종)의 단자 지도를 HD-13U처럼 실제 제품 사진 기준으로 바꾸고 `portMap`이 송신기·수신기 사진 여러 장을 받게 한 것은 `0.42.0`, HDS-21U·HDS-42MU에 EDID 로터리(edidSwitch)를 추가하고 오디오 병합 설명을 "HDMI OUTPUT에 실리는 오디오" 기준으로 정정하고 분배기·선택기 필터를 HDMI 출력 개수 순으로 정렬하고 XDM-CTR100 "02 신호 흐름" 케이블 최대 전송거리 표기를 다이어그램 하단 한쪽으로 모은 것은 `0.43.0`, 분배기·선택기 필터 정렬을 분배기(Splitter)가 먼저 나오고 셀렉터(Switcher)가 나중에 나오도록(같은 종류 안에서는 HDMI 출력 개수 순) 바꾼 것은 `0.44.0`, 사용자 제공 매뉴얼 3권으로 벽부형 XDM-CT103·CT103-U-H/CR103-U·FT103-U-H/FR103-U의 단자 지도·사양·EDID 표를 보완하고 단자 지도에 세로 괄호·표시 폭·안내 줄을 추가한 것은 `0.45.0`, XDM-CTR100 PSE 제품 안내서와 XDM-CTR100 매뉴얼 Ver.1.4로 CTR100 단자 역할(HDMI IN·OUT, 5핀 오디오 출력, 상태 LED)·딥 스위치 설정·PSE 크기·전원을 보완한 것은 `0.46.0`, 옛 PR #22에만 있던 사용자 결정(XDM-CTR100과 XDM-CTR100 PSE를 별도 제품으로 분리해 28종, QMS-88UX 쿼드 뷰 출력 9·10번 사용법, 모델명 줄바꿈 방지)을 현재 main 기준으로 다시 옮기고 HD-13U 오디오 병합·추출을 선택 방식으로 정정해 07 오디오 설정 카드를 추가하고 모든 제품의 단자 지도 번호를 HDMI 입력 → 출력 → 오디오 → … → 전원(마지막) 순으로 통일한 것은 `0.47.0`, QMS-88UX 출력 9·10번 멀티뷰의 12가지 레이아웃·입력 그룹·출력 옵션을 사용자 제공 매뉴얼 20~23쪽 근거로 "주요 기능"에 적은 것은 `0.48.0`, HDS-21U·HDS-42MU 오디오 병합·추출을 딥 스위치 1번 선택 방식으로 정정하고 07 오디오 설정 카드를 추가하고 사용자 제공 매뉴얼 Ver.1.0으로 Priority·분배 기능 딥 스위치를 보완하고 제품 사진 팝업을 사용자 LED 계산기 "05 프로세서" 방식(사진 탭·원형 돋보기)으로 바꾼 것은 `0.49.0`, QMS-88UX "02 신호 흐름"에서 멀티뷰 출력 9·10번을 매트릭스 출력과 분리된 별도 갈래(패널·캡션)로 다시 그리고 "05 주요 기능" 멀티뷰 항목을 요약하고 오디오 출력 2개(QD1·QD2)가 선택 가능한 출력임을 반영한 것은 `0.50.0`, QMS-88UX "04 제품 사양"의 조건 칸(부설)을 모두 비우고 LAN(Telnet & Web Browser) 표기를 사양·기능·개요·단자 지도에서 모두 뺀 것은 `0.51.0`, HDS-42MU 크기를 사용자 결정에 따라 매뉴얼 값 232×65×30mm로 바꾸고 제품 상세의 "자료 출처·검토 기록"을 "제조사 자료"로 이름을 바꿔 화면의 출처 표시를 뺀 것은 `0.52.0`, QMS-88UX 오디오 QD1·QD2 설명 정리·"02 신호 흐름" 오디오 추출 점선과 멀티뷰 8입력분할 표현 정리·입출력 단자 표 정렬 통일(TX→구분 없음→RX, 영상→오디오→전송→제어, 입력→출력→양방향)·"제조사 자료"에서 표기 다름·참고 사항도 추가로 뺀 것과 조건 칸의 출처 문구를 지우고 "05 주요 기능"을 한 줄 요약으로 줄인 것(상세는 06·07 카드·사양·단자 지도로 이동)은 `0.53.0`, XDM-CTR100·CTR100 PSE "04 제품 사양"의 딥 스위치 행을 다시 삭제(딥 스위치는 05 주요 기능에서만 안내)하고 전 제품 "05 주요 기능"을 추가로 압축하고 매트릭스 COS/CIS/FIS/FOS 카드와 짝인 전송기 3종(XDM-CTR100·CTR100 PSE·FT101/FR101)에 RS-232+ 패스스루(AMX 등 통합 제어 신호를 매트릭스·전송기 너머로 전달) 안내를 추가하고 "02 신호 흐름"의 케이블 최대 전송거리 표기를 범례 "출력" 항목 오른쪽으로 옮긴 것은 `0.54.0`, 구성기 확인 창을 사이트 글래스 스타일 대화상자로 바꾸고 카드 팝업에 수량 채우기와 같은 방향 슬롯 이동(끌어 옮기기·팝업 이동)을 추가하고 XDM 세로 슬롯 카드를 180도 돌리고 2U 이상만 정면·후면 버튼(그보다 작으면 정면 사진과 포트 연결면을 함께 표시)으로 하고 구성기 작업 단계 표기를 한글로 바꾸고 Delete 키 카드 빼기와 XDM RS-232+(CIS·COS·FIS·FOS 카드와 짝 전송기) 표기를 더한 것은 `0.55.0`, 전 제품 "05 주요 기능" 카탈로그 어투 통일("~ 지원")·"01 한눈에 보기" 위 사진 띠 삭제·"02 신호 흐름"과 "03 단자 지도" 순서 교체 및 영문 표기(Signal Flow·Port Map)·화면 구성 모드 등 06 카드를 05 옆으로 배치·QMS-88UX 06 화면 구성 모드 레이아웃 12종 클릭 미리보기 추가·HDS-21U·HDS-42MU 단자 지도를 정면·후면 선택 버튼 없이 위아래 합성 사진 한 장(번호 1~7, EDID 로터리 6번·전원 7번)으로 바꾼 것은 `0.56.0`, 05 옆으로 옮긴 06 카드가 휴대폰에서 01보다 먼저 뜨던 순서 버그를 고치고(rt-pg-col-mobile-6 클래스 추가) 15개 제품 "05 주요 기능"의 "~할 수 있다." 표현 24곳을 명사형으로 정리한 것은 `0.57.0`, HDS-21U·HDS-42MU 단자 지도에 MODE 딥 스위치 번호(7번)를 추가하고 07 오디오 설정 카드를 딥 스위치 그림(번호별 OFF·ON) 카드인 07 딥 스위치 설정으로 바꾸고(1번 오디오 병합·추출, 2번 Priority, 42MU만 3번 분배) 04 제품 사양의 딥 스위치 행과 05 주요 기능의 긴 설명을 이 카드로 옮기고 매트릭스 제품(QMS-44UX·QMS-88UX·HDS-42MU) "03 Signal Flow"를 입력이 한 점으로 모이는 모양 대신 크로스포인트(출력마다 입력 선택 예시)로 다시 그리고 HDS-42MU 정면 사진의 잘못 인쇄된 실크(MODE·EDID)를 사진 안에서 서로 바꾼 것은 `0.58.0`, EDID 로터리 태그 잘림·06 EDID 카드 배치·긴 코드표 좌우 분할을 고치고 EDID 설정 카드에 기본값·자주 쓰는 코드를 파란 16단 로터리 그림(화살표가 코드를 가리킴)으로 보여주고 HDS-21U·HDS-42MU(3·9번)·FT103-U-H/FR103-U(3·6번)에 자주 쓰는 코드 강조를 더하고 EDID 코드표 세로 크기를 줄인 것은 `0.59.0`, 04 제품 사양 표 줄 간격을 약 15% 줄이고 03 Signal Flow에서 AUDIO OUT "추출" 표시가 잘리던 그림 너비 계산을 고친 것은 `0.60.0`, HD-13U 07 오디오 설정을 06 EDID 다음 전체 폭으로 옮겨 잘림·번호 뒤집힘을 고치고 EDID 대표 설정과 같은 칸 4개(MODE 로터리 0번 → SET 누름 → OUT 1 LED 깜빡임·깜빡이지 않음)를 넣고 HD-210U에 매뉴얼 Ver.1.2 근거 07 딥 스위치 설정 카드(1번 오디오 병합, 2번 DDC)를 추가한 것은 `0.61.0`, 딥 스위치 카드가 있는 HD-210U·HDS-21U·HDS-42MU의 05 주요 기능에서 스위치 번호 참조를 지우고 HD-210U(5줄)·HD-13U(3줄) 05 주요 기능을 기능 이름만 남겨 정리하고 HDS-21U·HDS-42MU 딥 스위치 칸을 ON → OFF 순서로 바꾼 것은 `0.62.0`, QMS-44UX·QMS-88UX "06 화면 구성 모드" 카드가 05 옆 좁은 칸에 들어가면서 모드 카드 설명·레이아웃 칩이 카드 밖으로 넘치던 문제를 edidSwitch와 같은 기준(항상 전체 폭 아래)으로 고친 것은 `0.63.0`, SPX-TX/RX 전송기를 29번째 제품으로 추가(매뉴얼 Ver.2.0: 사양·단자 지도·딥 스위치 조합)하고 XDM-FT101/FR101에 매뉴얼 Ver.1.3 근거 EDID·오디오 로터리 카드(전체 8칸 그림)를 넣고 SPX 안내·범례의 HDBaseT 표기를 CATx로 바로잡고 OBUX-1C에 매뉴얼 Ver.2.2 근거 Tx Mode 딥 스위치 카드(1번 오디오, 2·3·4번 EDID 조합)를 넣고 전 제품 05 주요 기능의 "~한다/~다." 문장을 "~ 지원"·명사형으로 통일한 것은 `0.64.0`, OBHD-2C에 매뉴얼 KV01 근거 06 EDID 설정(MODE 로터리 0~D 전체 14칸 그림·코드표)을 추가하고 XDM-CT103/CR103 04 제품 사양의 전원(어댑터) 중복 행(CT103·CR103 각각 있던 동일 값)을 공통 행 하나로 합친 것은 `0.65.0`, XDM-CTR100·XDM-CTR100 PSE에 매뉴얼 Ver.1.4 근거 06 딥 스위치 설정(1·2번 TX/RX 모드 조합, 3번 전송 거리)을 추가하고 두 제품이 별도 페이지로 나뉜 뒤에도 남아 있던 04 제품 사양의 "공통"·자기 모델명 반복 표기를 정리하고 04 사양 "지원 케이블"을 "권장 케이블"로 바꾸고 분배기 4종(HD-13U·HD-104U·HD-108U·HD-210U) 단자 지도를 앞면·뒷면 합성 사진 한 장으로 바꿔 정면 로터리(·SET·MODE)에도 번호를 붙인 것은 `0.66.0`, QMS-88UX 06 화면 구성 모드 QUAD 레이아웃 목록에 매뉴얼 22~23쪽 Output Option 2·3 근거로 "8분할(비율무시)"을 13번째 항목으로 추가하고 분배기 4종(HD-13U·HD-104U·HD-108U·HD-210U) 05 주요 기능에 다단 증폭(캐스케이드 연결) 최대 3단 지원을 추가한 것은 `0.67.0`, XDM-FT101/FR101 단자 지도에 정면 MODE 로터리·S/P 번호를 추가하고 HD-D102U 05 주요 기능을 명사형으로 전면 재작성하고 HDS-21U·HDS-42MU "Audio Extraction"과 HD-210U EDID "Nothing" 표기를 통일하고 HDS-21U 딥 스위치 3번(분배)이 매뉴얼에 없는 기능이었음을 사용자 제공 매뉴얼로 확인해 삭제한 것은 `0.68.0`, HDS-21U·HDS-42MU 06 EDID 설정 안내 문장에서 "10번=A, 11번=B"처럼 10진수를 다시 설명하던 괄호를 완전히 지운 것은 `0.69.0`, 구성기 "섀시"를 "프레임"으로 통일하고 카드 팝업에 수량·순서대로 장착 버튼을 넣고 02 프레임 선택에 "함께 보면 좋은 제품"을 추가하고 빈 슬롯 공패널색을 통일하고 OBHD-2C EDID 로터리 번호를 매뉴얼 Ver.2.1 기준으로 정정하고 HD-D102U "스마트 EDID" 문구를 알기 쉽게 풀어 쓰고 HD-13U·XDM-CTR100 PSE "인증: KC 인증" 행을 삭제하고 HD-D102U 04 사양표를 HD-13U와 같은 구성으로 정리한 것은 `0.70.0`, OBHD-2C 04 제품 사양의 크기·무게·HDMI 규격을 사용자 결정에 따라 매뉴얼 Ver.2.1 값(128×89×25mm·0.36kg·HDMI 1.3)으로 바꾼 것은 `0.71.0`, OBHD-2C·OBUX-1C 04 제품 사양의 입력단자·출력단자(HDMI(female) 등 표기) 행을 삭제하고 전 제품(16종)의 mm/kg 옆 인치·lbs 병기를 지운 것은 `0.72.0`, XDM-PSU 전원 장치를 반영해 BOM의 임시 "전원 공급 장비"를 XDM-PSU(16칸당 1대)·XDM-POH(CTR100 Tx 1대당 1개)·XDM-PHX(COS100 1장당 1개)로 나누고 XDM-PSU를 30번째 제품으로 추가하고, HDS-21U·OBUX-1C 송신기·수신기 고해상도 실물 사진을 반영하고, CT103-U-H/CR103-U 04 제품 사양을 요약 형태로 정리한 것은 `0.73.0`, QMS-44UX 전면·후면 사진을 사용자가 직접 촬영한 고화질 사진으로 바꾸고 03 단자 지도 좌표를 재보정하고 새 사진에서 확인된 DOWNLOAD(Mini-USB) 포트를 추가한 것은 `0.74.0`, HD-108U 전면·후면 사진을 제조사에서 입수한 고화질 사진으로 바꾸고 03 단자 지도와 06 EDID 설정 로터리 스위치 좌표를 재보정한 것은 `0.75.0`, HDS-42MU 전면·후면 사진을 고화질로 바꾸고 단자 지도·EDID 좌표를 재보정한 것은 `0.76.0`, HD-13U·SPX-M810 전면·후면 사진을 고해상도로 바꾸고 HD-13U 단자 지도·EDID 좌표와 SPX-M810 구성기 카드 슬롯 좌표를 재측정한 것은 `0.77.0`, 사용자가 제공한 HD-104U 고해상도 전면·후면 사진(긴 변 약 2000px)으로 기존 저해상도 이미지를 교체하고 단자 지도·EDID 로터리 스위치 좌표를 새 사진 기준으로 다시 측정한 것은 `0.78.0`, 제품 상세에 등록된 제조사 카탈로그·매뉴얼 PDF만 "제품 목록" 옆 버튼(새 탭 보기·내려받기)으로 보여 주는 구조를 추가한 것은 `0.79.0`, 매트릭스 카드 상세 정보 버튼과 XDM·SPX·VDM 카드 26종 사양을 등록한 것은 `0.80.0`, 로컬 작업 환경(`DEVICE_WORKFLOW.md`, `.gitattributes`, `.claude/settings.json`)과 `input_doc` 자료 자동 분류(`.claude/skills/input-doc`, `scripts/input_doc.py`)를 추가한 것은 `0.81.0`, 제조사 자료 입출력 단자 표에서 방향("입력"·"출력"·"입출력")·수량(숫자) 칸이 좁은 화면에서 줄바꿈되던 문제를 30개 제품 전수 조사로 찾아 고친 것은 `0.82.0`, 제목에 송신기·수신기가 들어간 제품 10종의 라벨을 색으로 구분한 것은 `0.83.0`, input_doc 첫 정리(매뉴얼 20권·사양서 1장)로 VDM HOS4-U 카드 사양을 등록하고 CIS4-U·COS4-U·QOS4S-U를 매뉴얼 KV07 값으로 보완하고 input_doc 반영 장부(`docs/evidence/input-doc-ledger.json`)와 파일별 반영 표시(`input_doc/STATUS.md`)를 추가하고 검증된 PR의 병합·배포를 Claude가 이어서 하도록 규칙을 바꾼 것은 `0.84.0`, 카탈로그·매뉴얼 충돌 정리(`docs/audit/CATALOG_MANUAL_CONFLICTS_2026-09-28.md`) 결정대로 VDM -U 카드에 매뉴얼 해상도 행·SOS4 오디오 포트를 더하고 QMS-88UX 멀티뷰에 8분할(16:9 비율)을 추가한 것은 `0.85.0`, 카탈로그·매뉴얼 충돌 항목을 사용자 결정("새로준 자료 기준으로")에 따라 매뉴얼 값으로 통일한 것(HD-104U 전원 1A, XDM 전송기 3840x2160, VDM 광 카드 10km·-U 카드 4096×2160·HOS4S-UW 1920×1080)은 `0.86.0`, RT컴 제공 고해상도 실물 사진으로 XDM-CTR100·XDM-FT101·XDM-FR101·XDM-CT103 제품 사진·목록 카드·구성기 04 전송기 썸네일을 교체하고 CTR100·FT101·CT103 단자 지도를 새 사진으로 다시 합성하고 XDM-FR101 수신기 뒷면 단자 지도를 추가한 것은 `0.87.0`, 사용자 결정("1번")으로 input_doc 매뉴얼 17개를 공개 폴더에 올려 16개 제품 상세에 매뉴얼 PDF 버튼을 켠 것은 `0.88.0`, 사용자 확인("ctr100과 pse는 단자는 동일해")에 따라 XDM-CTR100·XDM-CTR100 PSE 단자 지도를 같은 합성 사진(앞면 PSE 제품 안내서 사진 + 뒷면 RT컴 CTR100 사진)으로 바꾼 것은 `0.89.0`, QMS-88UX 06 화면 구성 모드의 DUAL 카드("듀얼 모드" 한 마디뿐)를 매뉴얼 KV.04 20~21쪽 근거로 출력 9·10번 멀티뷰 설정의 2분할(PBP)·PIP 레이아웃 3종으로 채운 것은 `0.90.0`, XDM-CTR100 PSE 정면 사진을 사용자가 재확인("1번 맞아"·"적용시켜줘")한 원본 PNG에서 정확한 픽셀 경계로 다시 잘라 646×396으로 다시 저장한 것은 `0.91.0`, SPX-TX/SPX-RX 단자 지도 사진의 검은 배경을 흰색으로 바꾸고(사용자 요청) 전송기 6개 제품 사양의 ft(피트) 표기를 일괄 삭제한 것은 `0.92.0`, 전송기 9종 04 제품 사양 조건 칸의 "모델A·모델B 공통" 표기 55곳을 일괄 삭제하고 XDM-PSU에 "03 Signal Flow"(POH 입력 경로·PHX 출력 경로, 주황 전원 선) 그림을 추가한 것은 `0.93.0`, XDM-CTR100·XDM-CTR100 PSE 04 제품 사양의 최대 전송거리 3행을 1행으로 합치고 권장 케이블 행을 지우고 PSE 목록 썸네일을 정면 사진으로 바꾼 것은 `0.94.0`, 전체 카탈로그 46쪽판을 공용 파일(`rtcom-catalog-2026.pdf`) 하나로 공개해 29개 제품 상세의 카탈로그 PDF 버튼이 제품 쪽(`#page=N`)에서 열리고 제품 목록에 전체 카탈로그 버튼을 둔 것(사용자 결정 2026-09-28 "전체 카탈로그 공개해도 돼")은 `0.95.0`, QMS-88UX 06 화면 구성 모드의 QUAD·DUAL 설명 문장을 짧게 줄이고 매뉴얼 쪽 번호를 화면에 안 보이는 `page` 항목으로 옮기고 QMS-44UX QUAD 설명도 두 줄로 나눠 줄인 것(사용자 요청 "QMS-44, 88 모두 글이 너무 많아 좀 더 요약해줘")은 `0.96.0`, 전체 카탈로그 46쪽판에서 제품마다 해당 쪽만 뽑은 제품별 카탈로그 PDF 29개(`<제품id>-catalog.pdf`, XDM은 전송기 쪽을 뺀 4~9쪽, SPX-TX/RX는 16쪽)를 만들어 제품 상세 카탈로그 버튼에 연결한 것(사용자 결정 2026-09-28 "제품별로 잘라 공개")은 `0.97.0`, XDM-PSU "03 Signal Flow"를 제조사 연결도처럼 매트릭스 프레임(CIS100·COS100)·XDM-PSU(POH·PHX)·XDM-CTR100 Tx/Rx 장비 그림으로 다시 그리고 케이블을 따라 신호·전원이 흐르는 애니메이션을 넣은 것(사용자 요청 2026-09-28)은 `0.98.0`, 그 그림의 XDM-COS100을 포트마다 RJ45+피닉스 5핀으로 고쳐 PHX 2핀 전원선이 1번 포트 피닉스 단자에 꽂히게 하고(사용자 확인 "COS PHNIX픽에 전원연결") XDM-PSU Signal Flow에만 "크게 보기" 확대 창(100~300%)을 넣은 것은 `0.99.0`, QMS-88UX "8분할(16:9 비율)" 미리보기가 매뉴얼(KV.04 23쪽)처럼 위·아래 여백을 짙은 막대로 보여주게 고친 것(사용자 지적 "8분할시 비율유지는 안되는거 같은")은 `0.100.0`, 구성기 카드 팝업 "카드별 수량" 스테퍼가 다 채운 뒤 사라지던 버그를 고친 것은 `0.101.0`, OBHD-2C 단자 지도 사진 3장의 검은 배경을 흰색으로 바꾼 것(사용자 요청 2026-09-28 "OBHD-2C 이미지 너가 블랙을 뺄수 있을까?")은 `0.102.0`, XDM-CTR100과 동등 사양인 XDM-CT103/CR103의 "권장 케이블"을 "CAT6a, CAT7"에서 "CAT6A S/FTP 이상(UTP 사용 불가)"으로 정정하고 XDM-CIS100·COS100 카드 소개 문구도 맞춘 것은 `0.103.0`, XDM-CTR100 PSE 크기 표기를 사용자 제공 스펙표 근거로 "107.4[127.4]×88×30.1mm"(본체[브래킷 포함])로 QMS-88UX와 같은 표기 관례로 바꾼 것은 `0.104.0`, XDM-PSU 머리 아이콘을 전원(번개) 모양으로 바꾸고 02 Port Map 앞면·뒷면을 03 Signal Flow와 같은 평면 그림(`scripts/tools/draw_xdm_psu_panels.cjs`, 제조사 도면 배치)으로 다시 만든 것(사용자 요청 2026-09-28)은 `0.105.0`, XDM-PSU 03 Signal Flow의 COS100 전원선 길이·배치를 조정하고 확대 창 범례 누락을 고친 것은 `0.106.0`, OBHD-2C 사진 3장에서 원본부터 깨져 있던 실크 글자(송신기 PWR의 R·EDID S/W의 D 두 개, 수신기 AUDIO의 D)를 같은 사진의 온전한 글자로 복원한 것은 `0.107.0`, HD-13U 제품 상세 카탈로그 PDF 버튼을 새 탭 대신 화면 안 팝업(iframe)으로 여는 샘플을 적용하고(사용자 요청 2026-09-28 "카달로그는 팝업형태 보이면 어때? 1장짜리라서 파일다운받아서 다시 열기 불편해", "샘플로 HD-13U만 적용해줘"), 카드 선택 팝업의 "순서대로 장착"·"닫기" 버튼을 "장착" 하나로 합치고 "다른 출력 슬롯으로 이동" 드롭다운을 없애고(사용자 요청 "내가 직접 드래그 이동이 가능하니까"), XDM-HOS100 "정사분할" 표기를 "최대 4분할"로 통일하고, XDM-CTR100·XDM-CTR100 PSE "최대 전송거리" 조건 문구를 "*S/FTP CAT6A 필수"로 단순화한 것은 `0.108.0`, QMS-88UX "03 Signal Flow" 멀티뷰 출력 9·10번 캡션을 "9·10번 각 4분할 · 합쳐서 최대 8입력"에서 "9·10번 각 4분할 또는 8분할"로 바로잡은 것(사용자 지적)은 `0.109.0`, XDM 연결 전송기 4종(XDM-CTR100·XDM-CTR100 PSE·XDM-CT103/CR103·XDM-FT101/FR101)의 04 제품 사양 최대 해상도 표기를 `4K60Hz`(4:4:4)로 통일하고 XDM-FT101/FR101의 4096x2160 표기를 개요·주요 기능·사양에서 모두 뺀 것(사용자 결정 2026-09-28 "4종 4K60(4:4:4) 형식으로 통일", "4096은 잘 사용하지 않아서 모든 양식에서 빼자")은 `0.110.0`, 실물 사진이 없는 VDM 프레임 전면 7종·후면 8종을 VDM-16X 실물 사진과 같은 검은 몸체의 평면 그림(`scripts/tools/draw_vdm_frames.cjs`, 매뉴얼 KV07 도면 배치)으로 바꾼 것은 `0.111.0`, HD-13U 카탈로그 팝업을 iframe 대신 저장소에 넣은 PDF.js(`src/vendor/pdfjs/`, Apache 2.0)로 그려 PDF 보기 기능이 없는 휴대폰·인앱 브라우저에서도 다운로드 없이 바로 보이게 한 것(사용자 결정 2026-09-28 "PDF.js로 HD-13U 적용해줘")은 `0.112.0`, 구성기 후면(03 카드 슬롯) XDM 6종(후면 사진이 없던 XDM-216 포함)·SPX 5종 프레임을 VDM과 같은 평면 그림(`scripts/tools/draw_xdm_spx_rear_frames.cjs`)으로 바꾼 것은 `0.113.0`, 02 프레임 선택 미리보기 캡션 아래에 "다음 · 카드 슬롯 구성" 버튼을 넣은 것은 `0.114.0`, 카드 선택 팝업 아래 줄의 "슬롯 비우기(Del)"를 왼쪽·"장착"을 오른쪽으로 바꾼 것은 `0.115.0`, 02 프레임 선택 미리보기에 정면·후면을 함께 보여 주고(위아래·좌우, 후면 세로/가로 비율 2 초과인 XDM-144·216, VDM-80X·128X·180X만 정면/후면 버튼) 휴대폰 미리보기 높이 제한을 없앤 것은 `0.116.0`, 03 카드 선택 팝업에서 카드마다 연동 전송기(칩)를 골라 장착과 함께 연결하게 한 것(02·04는 그대로)은 `0.117.0`, 카드 선택 팝업 연동 전송기에 카드 1장당 수량 조절기를 더해 연결 수량과 물량 산출서(BOM)에 반영한 것은 `0.118.0`, VDM-16X 후면(카드가 꽂힌 실물 사진)을 빈 슬롯 평면 그림으로 바꿔 후면 20종을 모두 그림으로 맞춘 것은 `0.119.0`, VDM 카드 사진(HOS4S-UW·CIS4-U·COS4-U)과 VDM 프레임 그림 슬롯 칸을 모두 5.7:1로 맞춰 카드가 칸에 정확히 들어가게 한 것은 `0.120.0`, HD-D102U를 최대 12대 장착하는 19인치 랙 프레임 "HD-D102U Rack마운트"를 사용자 제공 도면으로 31번째 제품(정면·윗면·옆면 그림, HD-D102U와 서로 관련 제품)으로 추가한 것은 `0.121.0`, 그 제품 상세에 사용자 제공 도면 한 장(윗면·정면·옆면·치수)을 다시 그린 "06 도면" 카드(`drawing` 항목)를 추가한 것은 `0.122.0`, 사용자 요청("실도면은하지말고 그래픽이미지만")으로 그 도면 카드와 치수 그림을 지우고 그래픽 이미지(정면·윗면·옆면)만 남긴 것은 `0.123.0`으로 기록했습니다. 다음 기능 묶음은 `0.124.0`을 목표로 하며, 실제 병합 전에는 검증된 canonical main commit을 확인합니다.
 - 모든 작업은 구현 문서, QA 문서 또는 감사 문서에 근거와 결과를 남깁니다.
 - 사용자에게 받을 자료·남은 할 일은 `docs/handoff/OPEN_ITEMS.md`에 모아 둡니다. 새 세션은 이 목록을 먼저 확인하고, 처리한 항목은 지웁니다.
 

diff --git a/docs/implementation/HD_D102U_RACK.md b/docs/implementation/HD_D102U_RACK.md
@@ -11,7 +11,7 @@
 | --- | --- |
 | 새 제품 | `data/products/hd-d102u-rack.json`(31번째 제품, 분배기·선택기 그룹, 분류 `Rack Mount` 추가) |
 | 그림 | `scripts/tools/draw_hd_d102u_rack.cjs` → `output/design/assets/products/hd-d102u-rack-{front,dims,top,side}-art.webp`. VDM·XDM·SPX 프레임 그림과 같은 검은 몸체 평면 그림, 도면 mm 좌표 그대로. 도면에 없는 실크 글자는 넣지 않았습니다. |
-| 02 Port Map | 사진 3장(정면·치수 / 윗면 / 옆면)에 번호표. 기준 문구 "사용자 제공 도면 기준 그림" |
+| 02 Port Map | 그래픽 이미지 3장(정면 / 윗면 / 옆면)에 번호표(0.123.0부터 기준 문구 "그래픽 이미지") |
 | 04 제품 사양 | 장착 수량 최대 12대 · 크기 483×282×177mm(19인치 랙) · 고정 구멍 줄 간격 147mm |
 | 관련 제품 | Rack마운트 ↔ HD-D102U 양방향 `WORKS_WITH` |
 | 목록 정렬 | `scripts/build-product-index.cjs`: `Rack Mount` 제품은 함께 쓰는 제품의 HDMI 출력 개수로 정렬해 HD-D102U 바로 뒤에 보입니다. |
@@ -23,6 +23,13 @@
 - 도면 1쪽 배치(왼쪽 위 윗면, 왼쪽 아래 정면, 오른쪽 아래 옆면, 오른쪽 위 제목)를 그대로 따라 한 장의 그림 `hd-d102u-rack-drawing-art.webp`(2000×1308)로 다시 그렸습니다. 치수선은 483(폭)·282(깊이, 윗면·옆면)·177(높이, 정면·옆면)·147(고정 구멍 줄 간격).
 - 데이터: 선택 항목 `drawing`(`file`은 `images`에 있어야 함, `basis`·`note`는 선택). 화면: `src/products.js` `drawingSection()`, 번호는 06부터 앞선 06·07 카드 수만큼 뒤로 밀립니다.
 - 되돌리기: `drawing` 항목과 도면 그림 이미지 항목을 지우면 카드가 사라집니다.
+
+## 0.123.0 변경: 실도면 제외, 그래픽 이미지만
+
+- 사용자 요청(2026-09-28): "실도면은하지말고 그래픽이미지만해사 병합배포해줘"
+- 0.122.0의 06 도면 카드와 0.121.0의 02 Port Map "정면 · 치수" 그림(치수선 포함)을 지웠습니다. 02 Port Map은 그래픽 이미지 3장(정면·윗면·옆면)만 쓰며, 기준 문구는 "그래픽 이미지"입니다.
+- `drawing` 항목·`drawingSection()`·검증 규칙·CSS와 도면 그림 2장, 그림 스크립트의 `dim`·`frontDims`·`sheet`를 지웠습니다. 남은 그림 3장은 다시 만들어도 바이트가 같습니다.
+- 되돌리기: main에서 0.123.0 커밋을 revert하면 0.122.0 상태(도면 카드 포함)로 돌아갑니다.
 
 ## 확인하지 않은 것
 

diff --git a/README.md b/README.md
@@ -1,6 +1,6 @@
 # RTCOM Matrix Configurator
 
-**현재 버전: 0.122** · XDM·SPX·VDM 매트릭스의 프레임과 카드 슬롯을 구성하는 도구(Analog Way 구조 + LED 글래스 스킨 + 블랭크 커버, 04 전송기도 좌우 분할)와 알티컴 공개 제품정보(31종, 글래스 디자인·연결 다이어그램)를 제공합니다.
+**현재 버전: 0.123** · XDM·SPX·VDM 매트릭스의 프레임과 카드 슬롯을 구성하는 도구(Analog Way 구조 + LED 글래스 스킨 + 블랭크 커버, 04 전송기도 좌우 분할)와 알티컴 공개 제품정보(31종, 글래스 디자인·연결 다이어그램)를 제공합니다.
 
 프레임을 고르고 실제 슬롯 위치에 입력·출력 카드를 장착한 뒤, 전송기와 BOM을 검토하고 JSON·CSV·인쇄 보고서로 내보냅니다. 0.19부터 알티컴 브로셔 수준 제품정보의 원본은 이 저장소(`data/products/`)이며, 머리글의 "알티컴 제품정보" 탭에서 봅니다. 비공개 AV Portal은 이 공개 데이터를 읽기만 합니다([인계 문서](docs/handoff/AV_PORTAL_RTCOM_PRODUCT_DATA.md)). 실제 슬롯·설치 허용표와 전원·케이블 조건은 확정 전이며, 모든 내보내기는 `UNVERIFIED_DRAFT`로 표시합니다.
 

diff --git a/CHANGELOG.md b/CHANGELOG.md
@@ -50,6 +50,13 @@
 
 - **0.90.0 배포 기록**: `docs/qa/DEPLOYMENT_0.90_2026-09-28.md`(PR #85 → main 병합, 배포 run 64, 공개 파일 242/242 일치, 비공개 파일 6개 404)
 
+## 0.123.0
+
+- **HD-D102U Rack마운트: 실도면을 빼고 그래픽 이미지만 표시**(사용자 요청 2026-09-28 "실도면은하지말고 그래픽이미지만해사 병합배포해줘"):
+  - 0.122.0의 "06 도면" 카드(치수선 도면 한 장)와 02 Port Map "정면 · 치수" 그림을 없애고, 02 Port Map은 그래픽 이미지 3장(정면·윗면·옆면)만 보여줍니다. 정면 번호표 좌표는 치수선 없는 정면 그림 기준으로 다시 맞췄습니다.
+  - 더 쓰지 않는 `drawing` 항목(화면·검증·스타일)과 도면 그림 2장(`hd-d102u-rack-drawing-art.webp`, `hd-d102u-rack-dims-art.webp`), 그림 스크립트의 치수 함수를 지웠습니다. 제품 사양(483×282×177mm, 147mm)은 그대로입니다.
+- 검증: 단위 테스트 47/47, e2e 165/165(실도면 카드가 없는지 확인으로 바꿈).
+
 ## 0.122.0
 
 - **HD-D102U Rack마운트 06 도면 카드 추가**(사용자 요청 2026-09-28 "해당 페이지에 제품정보에 내가 준 파일을 그래픽화해서 같이 넣어줘"):
